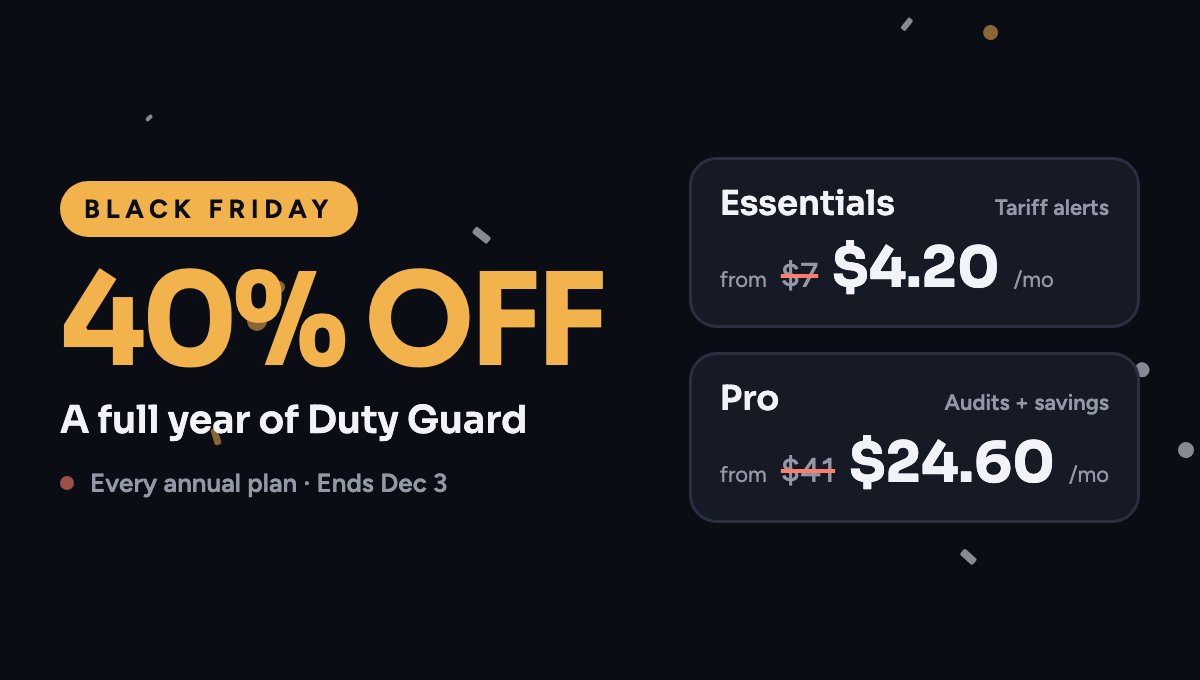
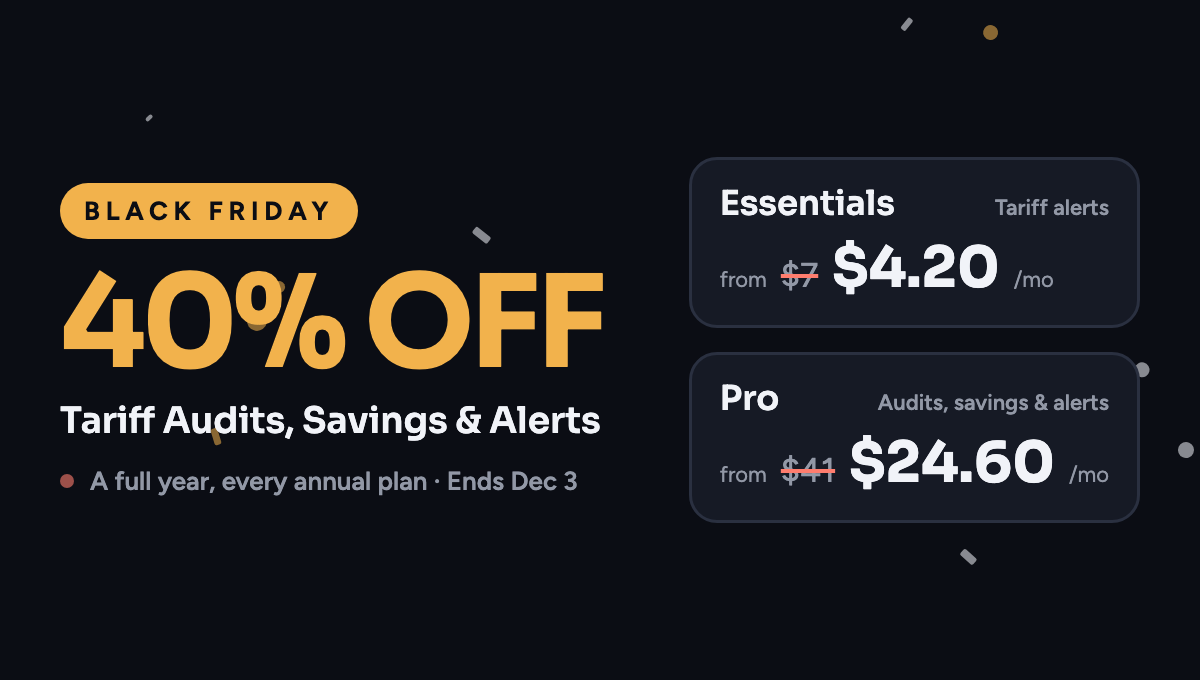
Black Friday visuals: lead with Tariff Audits, Savings & Alerts
Email hero, square post and LinkedIn ad now name the three features
instead of "a full year of Duty Guard"; the LinkedIn ad shows an
audit, a savings and an alert card.

diff --git a/emails/assets/black-friday/LinkedInAd.tsx b/emails/assets/black-friday/LinkedInAd.tsx
@@ -7,7 +7,7 @@ import { SALE, saleAnnual } from "../../../libs/black-friday"
 //   portrait  1080×1350, the feed's biggest image (best on mobile)
 //   square    1080×1080
 //   landscape 1200×627, LinkedIn's single-image ad size
-// One video: the pieces arrive in turn (settled by frame 75), then hold. The stills are frame
+// One video: the pieces arrive in turn (settled by frame 85), then hold. The stills are frame
 // 120, so every shape reads whole without the motion.
 // Render: `npm run email:render-black-friday`
 
@@ -29,8 +29,8 @@ const C = {
 }
 
 const OFFERS = [
-  { name: "Essentials", what: "Tariff alerts on your imports", deal: saleAnnual(ALERT_TIERS[0].price), accent: C.cobalt },
-  { name: "Pro", what: "Alerts + audits + savings", deal: saleAnnual(AUDIT_TIERS[0].price), accent: C.amber },
+  { name: "Essentials", what: "Tariff Alerts on your imports", deal: saleAnnual(ALERT_TIERS[0].price), accent: C.cobalt },
+  { name: "Pro", what: "Audits, Savings & Alerts", deal: saleAnnual(AUDIT_TIERS[0].price), accent: C.amber },
 ]
 
 const Mark = ({ size }: { size: number }) => (
@@ -60,7 +60,7 @@ export const LinkedInAd = ({ format }: { format: AdFormat }) => {
   const sweepAt = (start: number) => interpolate(frame, [start, start + 24], [-0.3, 1.3], { extrapolateLeft: "clamp", extrapolateRight: "clamp" })
   const sweep = frame < durationInFrames - 40 ? sweepAt(18) : sweepAt(durationInFrames - 36)
   // The alert's rate counts up from the old rate to the new one
-  const rate = Math.round(interpolate(frame, [40, 62], [25, 45], { extrapolateLeft: "clamp", extrapolateRight: "clamp" }))
+  const rate = Math.round(interpolate(frame, [48, 68], [25, 45], { extrapolateLeft: "clamp", extrapolateRight: "clamp" }))
   const pulse = 0.55 + 0.45 * Math.abs(Math.sin((frame / fps) * Math.PI))
 
   const pill = (
@@ -105,23 +105,27 @@ export const LinkedInAd = ({ format }: { format: AdFormat }) => {
         {SALE.percentOff}% OFF
       </div>
       <div style={{ fontFamily: display, fontWeight: 600, fontSize: (wide ? 36 : tall ? 54 : 48) * u, lineHeight: 1.12, marginTop: (wide ? 8 : 14) * u, letterSpacing: "-0.02em" }}>
-        A full year of Duty Guard
+        Tariff Audits, Savings & Alerts
       </div>
-      <div style={{ fontSize: (wide ? 20 : tall ? 29 : 26) * u, color: C.muted, marginTop: (wide ? 10 : 14) * u, lineHeight: 1.35, maxWidth: (wide ? 560 : 880) * u }}>
-        Know the moment a tariff change hits your imports, and find duty you may be overpaying.
-      </div>
+      {/* The square has no room for it: its three cards say the same */}
+      {format !== "square" && (
+        <div style={{ fontSize: (wide ? 20 : 29) * u, color: C.muted, marginTop: (wide ? 10 : 12) * u, lineHeight: 1.35, maxWidth: (wide ? 560 : 900) * u }}>
+          Find duty you may be overpaying, spot lower rates you may qualify for, and know the moment tariffs change.
+        </div>
+      )}
     </div>
   )
 
   // What Duty Guard finds: a tariff change on one of your imports, and (portrait) a lower rate it may qualify for
-  const notice = (n: { delay: number; tone: string; toneBg: string; icon: "bell" | "tag"; label: string; product: string; detail: string; from: string; to: string; change: string }) => (
+  const compact = !tall
+  const notice = (n: { delay: number; kind: string; tone: string; toneBg: string; icon: "bell" | "tag" | "shield"; label: string; product: string; detail: string; from: string; to: string; change: string }) => (
     <div
       style={{
         ...rise(n.delay, 60),
         backgroundColor: C.card,
         border: `${1.5 * u}px solid ${C.line}`,
-        borderRadius: (wide ? 18 : 22) * u,
-        padding: `${(wide ? 16 : 22) * u}px ${(wide ? 20 : 28) * u}px`,
+        borderRadius: (wide ? 16 : compact ? 18 : 22) * u,
+        padding: `${(wide ? 10 : compact ? 13 : 20) * u}px ${(wide ? 16 : compact ? 22 : 28) * u}px`,
         boxShadow: `0 ${24 * u}px ${60 * u}px rgba(0,0,0,0.45)`,
         display: "flex",
         alignItems: "center",
@@ -130,8 +134,8 @@ export const LinkedInAd = ({ format }: { format: AdFormat }) => {
     >
       <div
         style={{
-          width: (wide ? 44 : 62) * u,
-          height: (wide ? 44 : 62) * u,
+          width: (wide ? 38 : compact ? 50 : 62) * u,
+          height: (wide ? 38 : compact ? 50 : 62) * u,
           borderRadius: (wide ? 12 : 16) * u,
           backgroundColor: n.toneBg,
           display: "flex",
@@ -140,11 +144,16 @@ export const LinkedInAd = ({ format }: { format: AdFormat }) => {
           flex: "none",
         }}
       >
-        <svg width={(wide ? 22 : 30) * u} height={(wide ? 22 : 30) * u} viewBox="0 0 24 24" fill="none" stroke={n.tone} strokeWidth="2.2" strokeLinecap="round" strokeLinejoin="round">
+        <svg width={(wide ? 20 : compact ? 25 : 30) * u} height={(wide ? 20 : compact ? 25 : 30) * u} viewBox="0 0 24 24" fill="none" stroke={n.tone} strokeWidth="2.2" strokeLinecap="round" strokeLinejoin="round">
           {n.icon === "bell" ? (
             <>
               <path d="M18 8a6 6 0 0 0-12 0c0 7-3 9-3 9h18s-3-2-3-9" />
               <path d="M13.7 21a2 2 0 0 1-3.4 0" />
+            </>
+          ) : n.icon === "shield" ? (
+            <>
+              <path d="M12 22s8-4 8-10V5l-8-3-8 3v7c0 6 8 10 8 10" />
+              <path d="m9 12 2 2 4-4" />
             </>
           ) : (
             <>
@@ -155,27 +164,44 @@ export const LinkedInAd = ({ format }: { format: AdFormat }) => {
         </svg>
       </div>
       <div style={{ flex: 1, minWidth: 0 }}>
-        <div style={{ fontSize: (wide ? 13 : 19) * u, fontWeight: 700, letterSpacing: "0.12em", color: n.tone, whiteSpace: "nowrap" }}>{n.label}</div>
-        <div style={{ fontSize: (wide ? 18 : 25) * u, fontWeight: 600, marginTop: 4 * u, whiteSpace: "nowrap" }}>
-          {n.product} <span style={{ color: C.muted, fontWeight: 500 }}>· {wide ? n.detail.split(" · ").pop() : n.detail}</span>
+        <div style={{ display: "flex", alignItems: "center", gap: 10 * u, fontSize: (wide ? 12 : compact ? 16 : 19) * u, fontWeight: 700, letterSpacing: "0.12em", whiteSpace: "nowrap" }}>
+          <span style={{ color: C.text }}>{n.kind}</span>
+          <span style={{ color: n.tone }}>{n.label}</span>
+        </div>
+        <div style={{ fontSize: (wide ? 16 : compact ? 21 : 25) * u, fontWeight: 600, marginTop: (compact ? 2 : 4) * u, whiteSpace: "nowrap" }}>
+          {n.product} <span style={{ color: C.muted, fontWeight: 500 }}>· {compact ? n.detail.split(" · ").pop() : n.detail}</span>
         </div>
       </div>
       <div style={{ textAlign: "right", flex: "none" }}>
-        <div style={{ fontFamily: display, fontWeight: 700, fontSize: (wide ? 24 : 34) * u, whiteSpace: "nowrap" }}>
+        <div style={{ fontFamily: display, fontWeight: 700, fontSize: (wide ? 20 : compact ? 27 : 34) * u, whiteSpace: "nowrap" }}>
           <span style={{ color: C.muted, fontWeight: 600 }}>{n.from}</span>
           <span style={{ color: C.muted, margin: `0 ${8 * u}px` }}>→</span>
           {n.to}
         </div>
-        <div style={{ fontSize: (wide ? 14 : 20) * u, fontWeight: 700, color: n.tone }}>{n.change}</div>
+        <div style={{ fontSize: (wide ? 12 : compact ? 16 : 20) * u, fontWeight: 700, color: n.tone, whiteSpace: "nowrap" }}>{n.change}</div>
       </div>
     </div>
   )
+  const audit = notice({
+    delay: 26,
+    kind: "AUDIT",
+    tone: C.cobalt,
+    toneBg: "rgba(142,162,255,0.14)",
+    icon: "shield",
+    label: "POSSIBLE OVERPAYMENT",
+    product: "Office chairs",
+    detail: "9401.71.0011 · Entry #4471",
+    from: "45%",
+    to: "25%",
+    change: "Refund may apply",
+  })
   const alert = notice({
-    delay: 28,
+    delay: 38,
+    kind: "ALERT",
     tone: C.red,
     toneBg: "rgba(255,125,110,0.14)",
     icon: "bell",
-    label: "TARIFF CHANGE ON YOUR IMPORT",
+    label: compact ? "TARIFF CHANGE" : "TARIFF CHANGE ON YOUR IMPORT",
     product: "Steel brackets",
     detail: "7326.90.8688 · China",
     from: "25%",
@@ -183,11 +209,12 @@ export const LinkedInAd = ({ format }: { format: AdFormat }) => {
     change: `+${rate - 25}%`,
   })
   const saving = notice({
-    delay: 36,
+    delay: 32,
+    kind: "SAVINGS",
     tone: C.green,
     toneBg: "rgba(52,201,139,0.14)",
     icon: "tag",
-    label: "YOU MAY QUALIFY FOR A LOWER RATE",
+    label: compact ? "MAY QUALIFY" : "YOU MAY QUALIFY FOR A LOWER RATE",
     product: "LED lamps",
     detail: "9405.42.8440 · Mexico",
     from: "3.9%",
@@ -201,7 +228,7 @@ export const LinkedInAd = ({ format }: { format: AdFormat }) => {
         <div
           key={o.name}
           style={{
-            ...rise(44 + i * 6, 50),
+            ...rise(50 + i * 6, 50),
             flex: 1,
             backgroundColor: C.cardHi,
             border: `${1.5 * u}px solid ${C.line}`,
@@ -226,7 +253,7 @@ export const LinkedInAd = ({ format }: { format: AdFormat }) => {
   )
 
   const brand = (
-    <div style={{ display: "flex", alignItems: "center", gap: 14 * u, ...rise(58, 30) }}>
+    <div style={{ display: "flex", alignItems: "center", gap: 14 * u, ...rise(62, 30) }}>
       <Mark size={(wide ? 44 : 54) * u} />
       <div>
         <div style={{ fontFamily: display, fontWeight: 700, fontSize: (wide ? 22 : 28) * u }}>HTS Hero</div>
@@ -237,7 +264,7 @@ export const LinkedInAd = ({ format }: { format: AdFormat }) => {
   const button = (
     <div
       style={{
-        ...rise(58, 30),
+        ...rise(62, 30),
         backgroundColor: C.amber,
         color: C.ground,
         fontFamily: display,
@@ -253,6 +280,13 @@ export const LinkedInAd = ({ format }: { format: AdFormat }) => {
       Claim 40% Off →
     </div>
   )
+  const cards = (
+    <div style={{ display: "flex", flexDirection: "column", gap: (wide ? 8 : compact ? 12 : 16) * u }}>
+      {audit}
+      {saving}
+      {alert}
+    </div>
+  )
   const cta = (
     <div style={{ display: "flex", alignItems: "center", justifyContent: "space-between", gap: 20 * u }}>
       {brand}
@@ -261,7 +295,7 @@ export const LinkedInAd = ({ format }: { format: AdFormat }) => {
   )
 
   const fine = (
-    <div style={{ fontSize: (wide ? 13 : 18) * u, color: C.muted, textAlign: wide ? "center" : undefined, opacity: enter(64) * 0.85 }}>
+    <div style={{ fontSize: (wide ? 13 : 18) * u, color: C.muted, textAlign: wide ? "center" : undefined, opacity: enter(68) * 0.85 }}>
       First year of any annual plan, then the regular annual price. No code needed.
     </div>
   )
@@ -291,7 +325,7 @@ export const LinkedInAd = ({ format }: { format: AdFormat }) => {
             {brand}
           </div>
           <div style={{ flex: 1, minWidth: 0, display: "flex", flexDirection: "column", justifyContent: "space-between", gap: 14 * u }}>
-            {alert}
+            {cards}
             {prices}
             {button}
             {fine}
@@ -301,10 +335,7 @@ export const LinkedInAd = ({ format }: { format: AdFormat }) => {
         <AbsoluteFill style={{ flexDirection: "column", justifyContent: "space-between", padding: `${(tall ? 76 : 60) * u}px ${70 * u}px ${(tall ? 64 : 52) * u}px` }}>
           {pill}
           {headline}
-          <div style={{ display: "flex", flexDirection: "column", gap: 18 * u }}>
-            {alert}
-            {tall && saving}
-          </div>
+          {cards}
           {prices}
           <div style={{ display: "flex", flexDirection: "column", gap: 18 * u }}>
             {cta}

diff --git a/emails/assets/black-friday/BlackFridayHero.tsx b/emails/assets/black-friday/BlackFridayHero.tsx
@@ -3,7 +3,7 @@ import { display, sans } from "../../../social/fonts"
 import { ALERT_TIERS, AUDIT_TIERS, formatPrice } from "../../../components/pricing-calculator/lib/pricing"
 import { SALE, saleAnnual } from "../../../libs/black-friday"
 
-// The Black Friday 2026 visual (libs/black-friday.ts): "40% off a full year of Duty Guard" with
+// The Black Friday 2026 visual (libs/black-friday.ts): "40% off Tariff Audits, Savings & Alerts" with
 // both offers' from-prices struck through. Two layouts from one design:
 //   banner: the email's animated hero (a GIF, emails/marketing/black-friday)
 //   square: a 1080×1080 post for LinkedIn / X
@@ -27,7 +27,7 @@ const COLORS = {
 
 const OFFERS = [
   { name: "Essentials", what: "Tariff alerts", deal: saleAnnual(ALERT_TIERS[0].price) },
-  { name: "Pro", what: "Audits + savings", deal: saleAnnual(AUDIT_TIERS[0].price) },
+  { name: "Pro", what: "Audits, savings & alerts", deal: saleAnnual(AUDIT_TIERS[0].price) },
 ]
 
 // Confetti that falls on a loop: each piece's start, speed and shape are fixed, so the loop is seamless
@@ -129,8 +129,8 @@ export const BlackFridayHero = ({ layout }: { layout: HeroLayout }) => {
               {SALE.percentOff}% OFF
             </div>
           </div>
-          <div style={{ fontFamily: display, fontWeight: 600, fontSize: (square ? 56 : 19) * u, lineHeight: 1.15, whiteSpace: "nowrap", marginTop: (square ? 18 : 8) * u }}>
-            A full year of Duty Guard
+          <div style={{ fontFamily: display, fontWeight: 600, fontSize: (square ? 60 : 18) * u, lineHeight: 1.15, whiteSpace: "nowrap", marginTop: (square ? 18 : 8) * u }}>
+            Tariff Audits, Savings & Alerts
           </div>
           <div
             style={{
@@ -145,7 +145,7 @@ export const BlackFridayHero = ({ layout }: { layout: HeroLayout }) => {
           >
             {/* The clock dot pulses */}
             <span style={{ width: (square ? 14 : 7) * u, height: (square ? 14 : 7) * u, borderRadius: 999, backgroundColor: COLORS.red, opacity: 0.6 + 0.4 * Math.abs(wave) }} />
-            Every annual plan · Ends {SALE.endsLabel}
+            A full year, every annual plan · Ends {SALE.endsLabel}
           </div>
         </div>
 
@@ -182,7 +182,7 @@ export const BlackFridayHero = ({ layout }: { layout: HeroLayout }) => {
       </AbsoluteFill>
       {square && (
         <div style={{ position: "absolute", bottom: 56 * u, left: 0, right: 0, textAlign: "center", fontFamily: display, fontWeight: 600, fontSize: 30 * u, color: COLORS.muted }}>
-          htshero.com · Duty Guard
+          htshero.com/black-friday
         </div>
       )}
     </AbsoluteFill>
